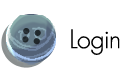
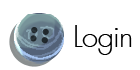
New UI login

Changed region(s): [[0.0, 0.1714, 0.48, 0.9714], [0.528, 0.3429, 0.96, 0.8], [0.816, 0.4, 0.864, 0.4857]]

diff --git a/public/stylesheets/main-auth.css b/public/stylesheets/main-auth.css
@@ -265,13 +265,13 @@ input[type=submit]#submit-ok  {
     margin-left: 0px;
     position:absolute;
     background:url("../images/login/login-bg.png") 0 0 no-repeat;
-    width: 406px; height: 78px;
+    width: 410px; height: 80px;
 }
 
 #login-form .input-login-container{
     position: absolute;
-    left:150px;
-    top:24px;
+    left:160px;
+    top:22px;
     width: 228px;
     height: 30px;
     background: url("../images/login/bg-input.png") no-repeat 0;
@@ -307,25 +307,27 @@ input[type=submit]#submit-ok  {
 #login-form .input-login-container #password_field .input input[type=password]#password{
     width: 100%;
     height: 100%;
-    padding:5px 0 0 5px;
+    padding:0;
     margin:0;
 }
 
 input[type="submit"]#submit-login{
-    top:-2px;left:15px;
-    background: url("../images/login/bt-login.png") no-repeat 0;
+    left: 25px;
+    background-color: transparent;
     position: absolute;
-    width:125px;
-    height:70px;
+    width: 125px;
+    height: 70px;
     border: none;
+    padding: 0;
+    margin: 0;
 }
 
 input[type="submit"]#submit-login:hover{
-    background: url("../images/login/bt-login-on.png") no-repeat 0;
+
 }
 
 input[type="submit"]#submit-login:active{
-    background: url("../images/login/bt-login-on.png") no-repeat 0;
+
 }
 
 /* Div username */
@@ -372,8 +374,8 @@ input[type="submit"]#submit-login:active{
 }
 
 .play-as-guest-container{
-	top:0px;left:0px;
-	width:246px;height:68px;background: url("../images/login/login.png") no-repeat -0px -736px;
+	top:500px;left:0px;
+	width:270px;height:80px;background: url("../images/login/bg-guest.png") no-repeat 0;
 	position: absolute;
 	margin-left: 470px;
 	margin-top: 10px;
@@ -381,13 +383,13 @@ input[type="submit"]#submit-login:active{
 
 
 .play-as-guest-container:hover{
-	top:0px;left:0px;
-	width:246px;height:68px;background: url("../images/login/login.png") no-repeat -0px -600px;
+    background: url("../images/login/bg-guest-on.png") no-repeat 0;
+
 }
 
 .play-as-guest-container:active{
-	top:4px;left:4px;
-	width:241px;height:48px;background: url("../images/login/login.png") no-repeat -246px -600px;
+    background: url("../images/login/bg-guest-on.png") no-repeat 0;
+
 }
 
 .provider-container{
@@ -401,31 +403,30 @@ input[type="submit"]#submit-login:active{
 
 .register-container{
 	top:0px;left:0px;
-	width:182px;height:69px;background: url("../images/login/login.png") no-repeat -614px -714px;
+	width:200px;height:80px;background: url("../images/login/bg-register.png") no-repeat 0;
 	position: absolute;
 	margin-left: 10px;
 	margin-top: 370px;
 	border: none;
+    cursor: pointer;
 }
 .register-container:hover{
-	top:0px;left:0px;
-	background: url("../images/login/login.png") no-repeat -432px -714px;
+    background: url("../images/login/bg-register-on.png") no-repeat 0;
 }
 .register-container:active{
-	top:0px;left:0px;
-	background: url("../images/login/login.png") no-repeat -246px -780px;
+
 }
 
 #facebookLike {
 	width: 300px;
-	top: 530px;
+	top: 10px;
 	position: absolute;
 	right: 10px;
 }
 
 #twitterFollow {
 	width: 300px;
-	top: 560px;
+	top: 40px;
 	position: absolute;
 	right: 10px;
 }
@@ -434,23 +435,27 @@ input[type="submit"]#submit-login:active{
 
 
 #login-form .help-inline{
+    display: none;
 	margin-left: 10px;
  	margin-top: 10px;
 }
 
 
 .providers{
-	list-style:none;
-	margin: 0;
-	width: 100px;
-	height: 50px;
+    list-style: none;
+    margin: 0;
+    width: 155px;
+    height: 50px;
     position: relative;
-    top: 30px;
-    left: 280px;
+    top: 16px;
+    left: 170px;
 }
 
 div#provider-container ul li{
-	display: inline;
+    display: inline-block;
+    width: 55px;
+    height: 55px;
+    margin-right: -10px;
 }
 
 

diff --git a/app/views/sketchness_login.scala.html b/app/views/sketchness_login.scala.html
@@ -30,6 +30,15 @@
 
         </div>
         <input type="submit" id="submit-login" class="login-submit" value="">
+        <script type="text/javascript">
+            $(function(){
+                $('#submit-login').mouseenter(function(){
+                   $('#login-form').css("background-image","url(/assets/images/login/login-bg-on.png)");
+                }).mouseleave(function(){
+                   $('#login-form').css("background-image","url(/assets/images/login/login-bg.png)");
+                });
+            });
+        </script>
     </div>
 
 
